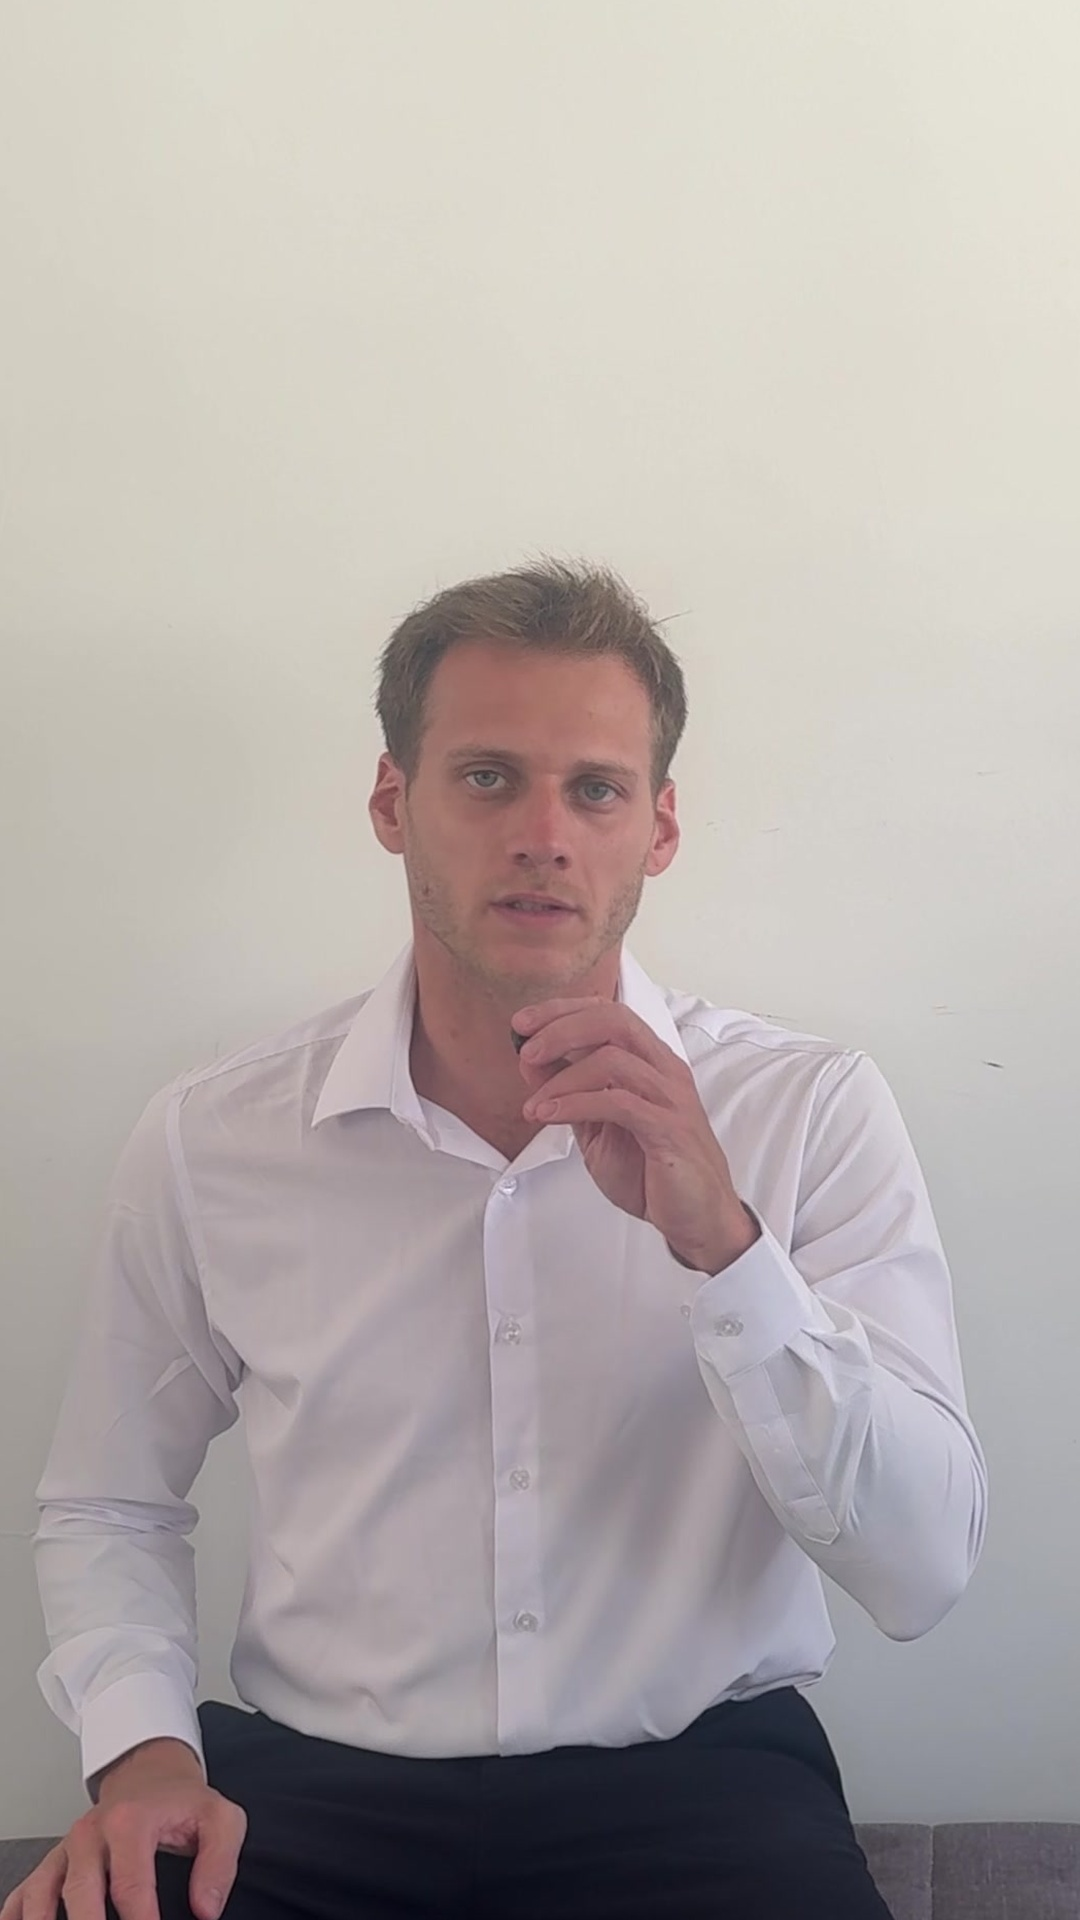
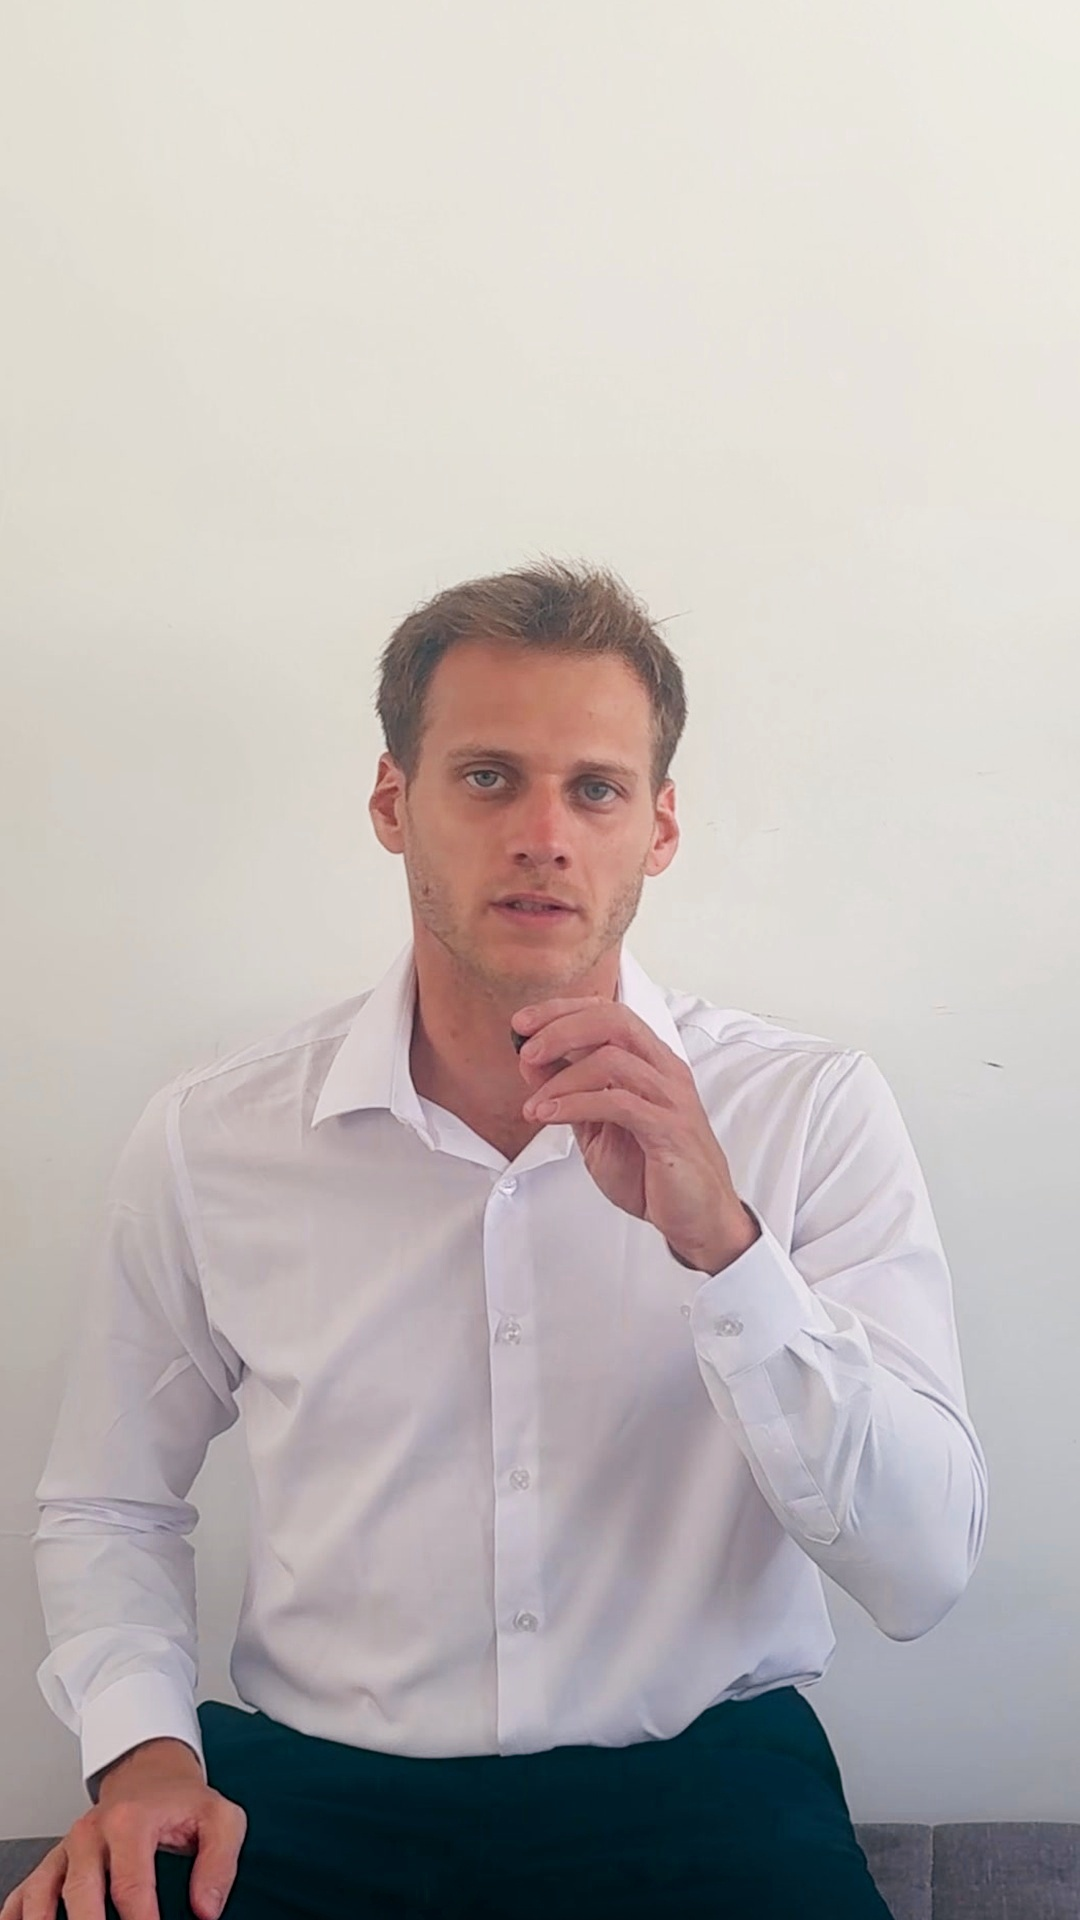
Imagen del sujeto para tapas: versión con la corrección de color de DaVinci
Claude-Session: https://claude.ai/code/session_014o4cWJYLXEDKk3ecgstzG4

diff --git a/video/sujetos/README.md b/video/sujetos/README.md
@@ -7,3 +7,5 @@ pone encima la etiqueta y el gancho de cada Reel. Los Reels de caso real siguen 
 Si hay más de una imagen, rotan según el número del ID de la fila (T130 → imagen 130 % cantidad).
 
 - `sujeto-01.jpg`: cuadro limpio de la grabación AD-03 (segundo 11,32), el mismo de la tapa de referencia que eligió el estudio.
+  Desde el 16/11/2026 lleva la corrección de color y contraste que el estudio hizo en DaVinci: se tomó de su captura editada
+  y se aplicó al cuadro limpio en alta resolución (la captura tenía placas, subtítulos y la barra del reproductor).
